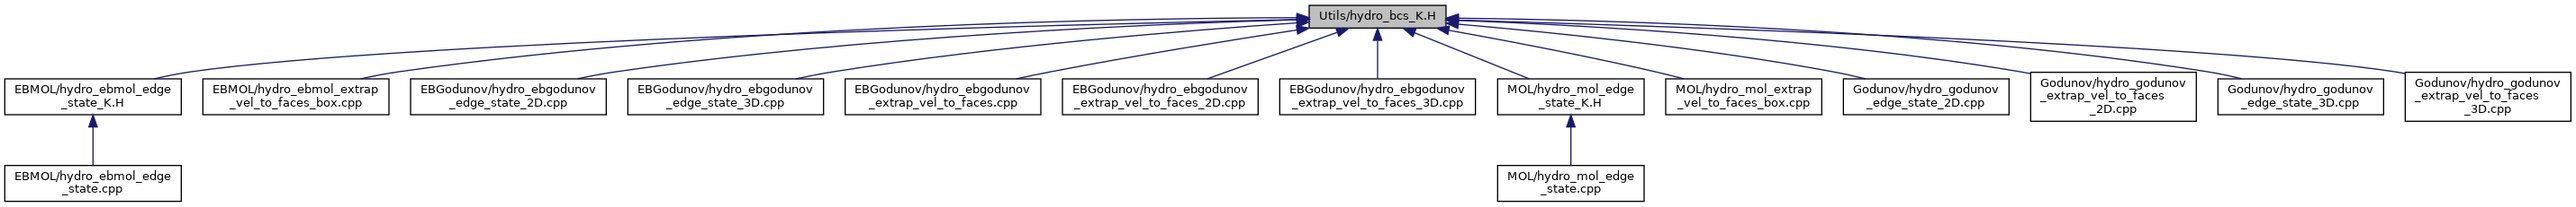
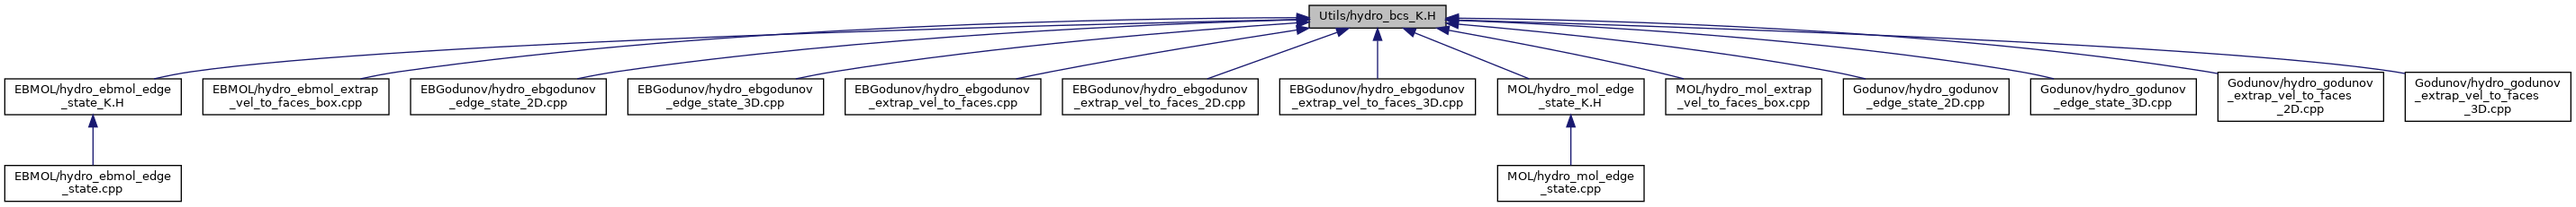
Deploying to main from  @ bc4e5f64c9ac3072793ebf426b422be91231652c 🚀

Changed region(s): [[0.7777, 0.3333, 0.9332, 0.6061]]

diff --git a/amrex-hydro/Doxygen/html/hydro__godunov_8H.html b/amrex-hydro/Doxygen/html/hydro__godunov_8H.html
@@ -127,8 +127,8 @@ This graph shows which files directly or indirectly include this file:</div>
 <area shape="rect" href="hydro__ebgodunov__extrap__vel__to__faces__2D_8cpp.html" title=" " alt="" coords="247,87,464,129"/>
 <area shape="rect" href="hydro__ebgodunov__extrap__vel__to__faces__3D_8cpp.html" title=" " alt="" coords="488,87,705,129"/>
 <area shape="rect" href="hydro__godunov__edge__state__2D_8cpp.html" title=" " alt="" coords="730,87,914,129"/>
-<area shape="rect" href="hydro__godunov__extrap__vel__to__faces__2D_8cpp.html" title=" " alt="" coords="938,80,1122,136"/>
-<area shape="rect" href="hydro__godunov__edge__state__3D_8cpp.html" title=" " alt="" coords="1146,87,1330,129"/>
+<area shape="rect" href="hydro__godunov__edge__state__3D_8cpp.html" title=" " alt="" coords="938,87,1122,129"/>
+<area shape="rect" href="hydro__godunov__extrap__vel__to__faces__2D_8cpp.html" title=" " alt="" coords="1146,80,1330,136"/>
 <area shape="rect" href="hydro__godunov__extrap__vel__to__faces__3D_8cpp.html" title=" " alt="" coords="1354,80,1538,136"/>
 <area shape="rect" href="hydro__compute__edgestate__and__flux_8cpp.html" title=" " alt="" coords="1563,87,1745,129"/>
 <area shape="rect" href="hydro__extrap__vel__to__faces_8cpp.html" title=" " alt="" coords="1769,87,1912,129"/>

diff --git a/amrex-hydro/Doxygen/html/hydro__bcs__K_8H.html b/amrex-hydro/Doxygen/html/hydro__bcs__K_8H.html
@@ -137,8 +137,8 @@ This graph shows which files directly or indirectly include this file:</div>
 <area shape="rect" href="hydro__mol__edge__state__K_8H.html" title=" " alt="" coords="1663,87,1826,129"/>
 <area shape="rect" href="hydro__mol__extrap__vel__to__faces__box_8cpp.html" title=" " alt="" coords="1850,87,2023,129"/>
 <area shape="rect" href="hydro__godunov__edge__state__2D_8cpp.html" title=" " alt="" coords="2047,87,2231,129"/>
-<area shape="rect" href="hydro__godunov__extrap__vel__to__faces__2D_8cpp.html" title=" " alt="" coords="2255,80,2439,136"/>
-<area shape="rect" href="hydro__godunov__edge__state__3D_8cpp.html" title=" " alt="" coords="2463,87,2647,129"/>
+<area shape="rect" href="hydro__godunov__edge__state__3D_8cpp.html" title=" " alt="" coords="2255,87,2439,129"/>
+<area shape="rect" href="hydro__godunov__extrap__vel__to__faces__2D_8cpp.html" title=" " alt="" coords="2463,80,2647,136"/>
 <area shape="rect" href="hydro__godunov__extrap__vel__to__faces__3D_8cpp.html" title=" " alt="" coords="2671,80,2855,136"/>
 <area shape="rect" href="hydro__ebmol__edge__state_8cpp.html" title=" " alt="" coords="5,184,201,225"/>
 <area shape="rect" href="hydro__mol__edge__state_8cpp.html" title=" " alt="" coords="1663,184,1826,225"/>

diff --git a/amrex-hydro/Doxygen/html/hydro__godunov__ppm_8H.html b/amrex-hydro/Doxygen/html/hydro__godunov__ppm_8H.html
@@ -125,8 +125,8 @@ This graph shows which files directly or indirectly include this file:</div>
 <area shape="rect" title=" " alt="" coords="1056,5,1240,47"/>
 <area shape="rect" href="hydro__godunov_8H.html" title=" " alt="" coords="937,95,1135,121"/>
 <area shape="rect" href="hydro__godunov__edge__state__2D_8cpp.html" title=" " alt="" coords="5,177,189,218"/>
-<area shape="rect" href="hydro__godunov__extrap__vel__to__faces__2D_8cpp.html" title=" " alt="" coords="213,169,397,225"/>
-<area shape="rect" href="hydro__godunov__edge__state__3D_8cpp.html" title=" " alt="" coords="1147,177,1331,218"/>
+<area shape="rect" href="hydro__godunov__edge__state__3D_8cpp.html" title=" " alt="" coords="213,177,397,218"/>
+<area shape="rect" href="hydro__godunov__extrap__vel__to__faces__2D_8cpp.html" title=" " alt="" coords="1147,169,1331,225"/>
 <area shape="rect" href="hydro__godunov__extrap__vel__to__faces__3D_8cpp.html" title=" " alt="" coords="1355,169,1539,225"/>
 <area shape="rect" href="hydro__utils_8H.html" title=" " alt="" coords="1657,95,1799,121"/>
 <area shape="rect" href="hydro__ebgodunov__extrap__vel__to__faces_8cpp.html" title=" " alt="" coords="422,177,639,218"/>

diff --git a/amrex-hydro/Doxygen/html/hydro__godunov__plm_8H.html b/amrex-hydro/Doxygen/html/hydro__godunov__plm_8H.html
@@ -135,8 +135,8 @@ This graph shows which files directly or indirectly include this file:</div>
 <area shape="rect" href="hydro__ebgodunov__extrap__vel__to__faces__2D_8cpp.html" title=" " alt="" coords="247,102,464,143"/>
 <area shape="rect" href="hydro__ebgodunov__extrap__vel__to__faces__3D_8cpp.html" title=" " alt="" coords="488,102,705,143"/>
 <area shape="rect" href="hydro__godunov__edge__state__2D_8cpp.html" title=" " alt="" coords="730,102,914,143"/>
-<area shape="rect" href="hydro__godunov__extrap__vel__to__faces__2D_8cpp.html" title=" " alt="" coords="938,95,1122,151"/>
-<area shape="rect" href="hydro__godunov__edge__state__3D_8cpp.html" title=" " alt="" coords="1146,102,1330,143"/>
+<area shape="rect" href="hydro__godunov__edge__state__3D_8cpp.html" title=" " alt="" coords="938,102,1122,143"/>
+<area shape="rect" href="hydro__godunov__extrap__vel__to__faces__2D_8cpp.html" title=" " alt="" coords="1146,95,1330,151"/>
 <area shape="rect" href="hydro__godunov__plm_8cpp.html" title=" " alt="" coords="1354,102,1538,143"/>
 <area shape="rect" href="hydro__godunov__extrap__vel__to__faces__3D_8cpp.html" title=" " alt="" coords="1562,95,1746,151"/>
 </map>
